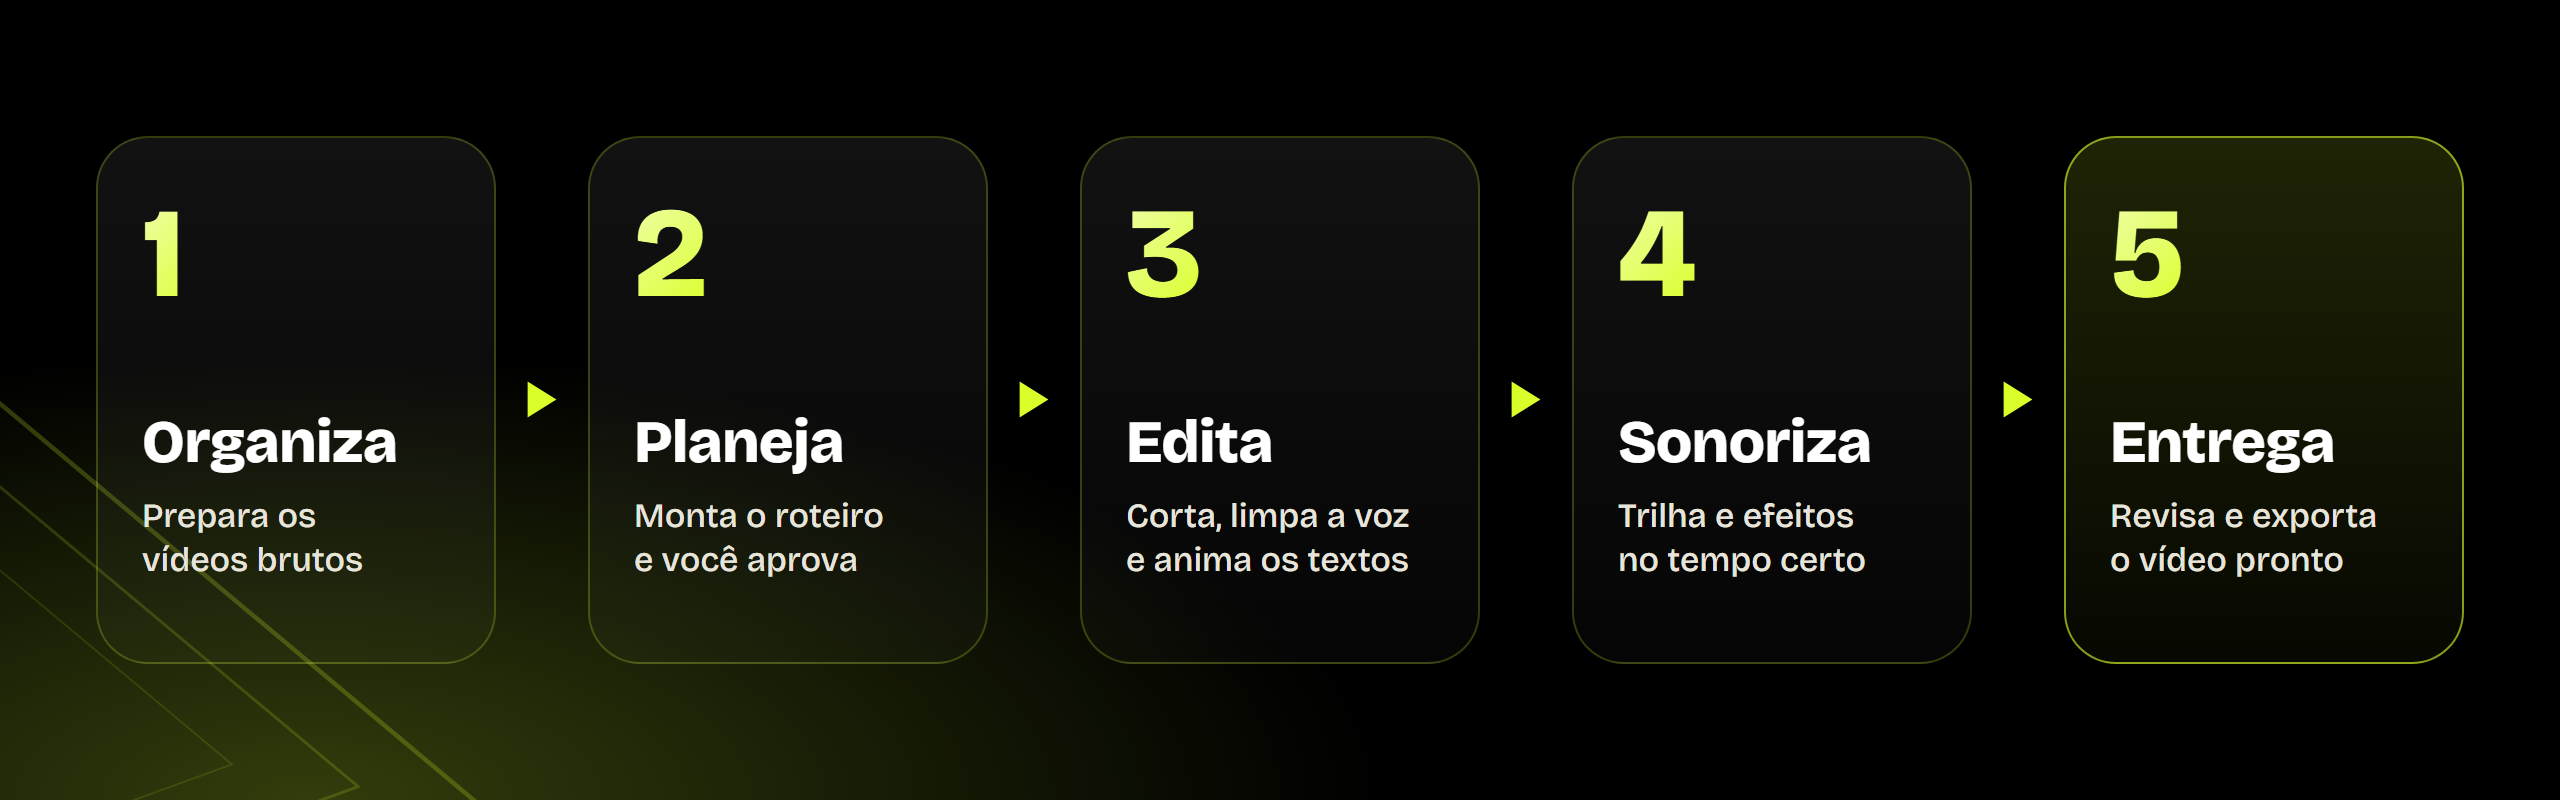
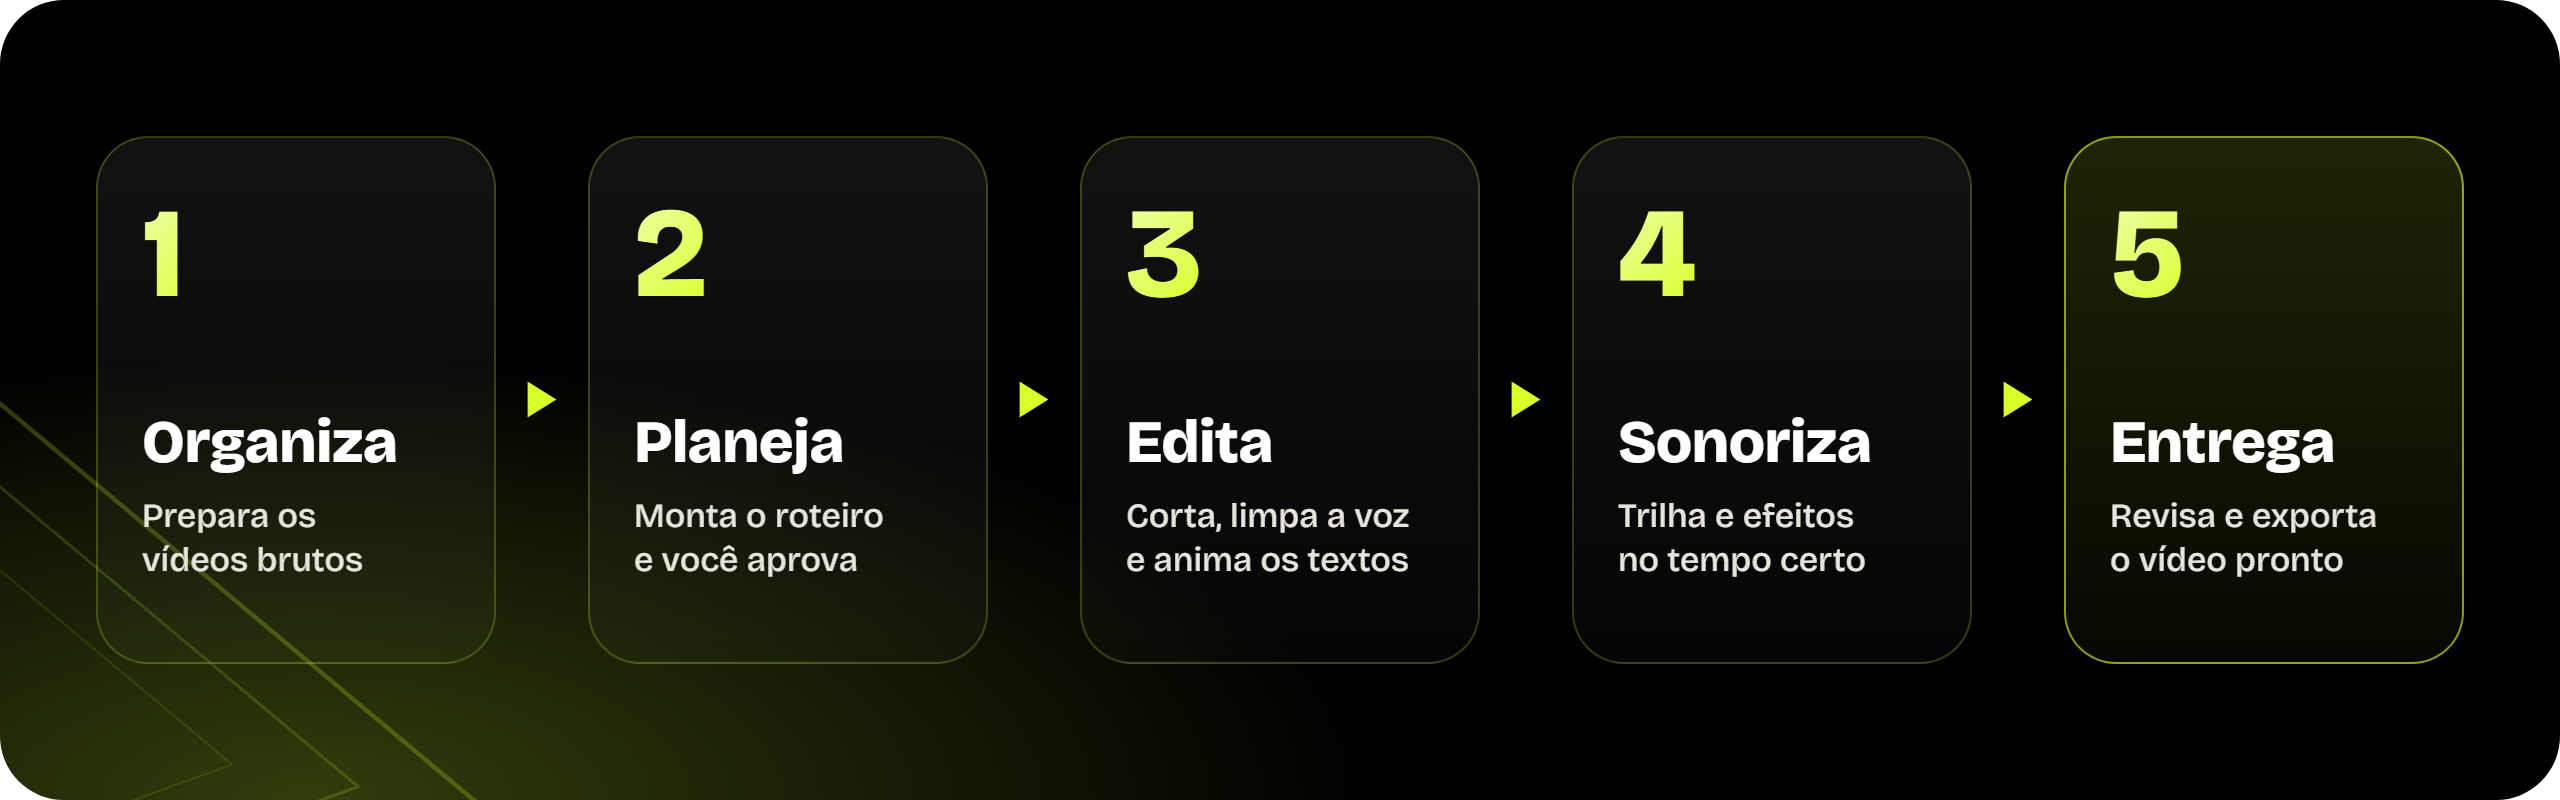
Imagens do README com cantos arredondados

diff --git a/assets/fonte/estilo.css b/assets/fonte/estilo.css
@@ -15,7 +15,7 @@
 * { margin: 0; padding: 0; box-sizing: border-box; }
 
 html, body {
-  background: var(--preto);
+  background: transparent;
   color: var(--texto);
   font-family: 'Bricolage Grotesque', 'Segoe UI', sans-serif;
   -webkit-font-smoothing: antialiased;
@@ -24,6 +24,7 @@ html, body {
 .quadro {
   position: relative;
   overflow: hidden;
+  border-radius: 32px;
   background:
     radial-gradient(ellipse 60% 80% at var(--brilho-x, 85%) var(--brilho-y, 55%), rgba(66, 82, 16, 0.75), rgba(5, 6, 0, 0) 70%),
     var(--preto);
